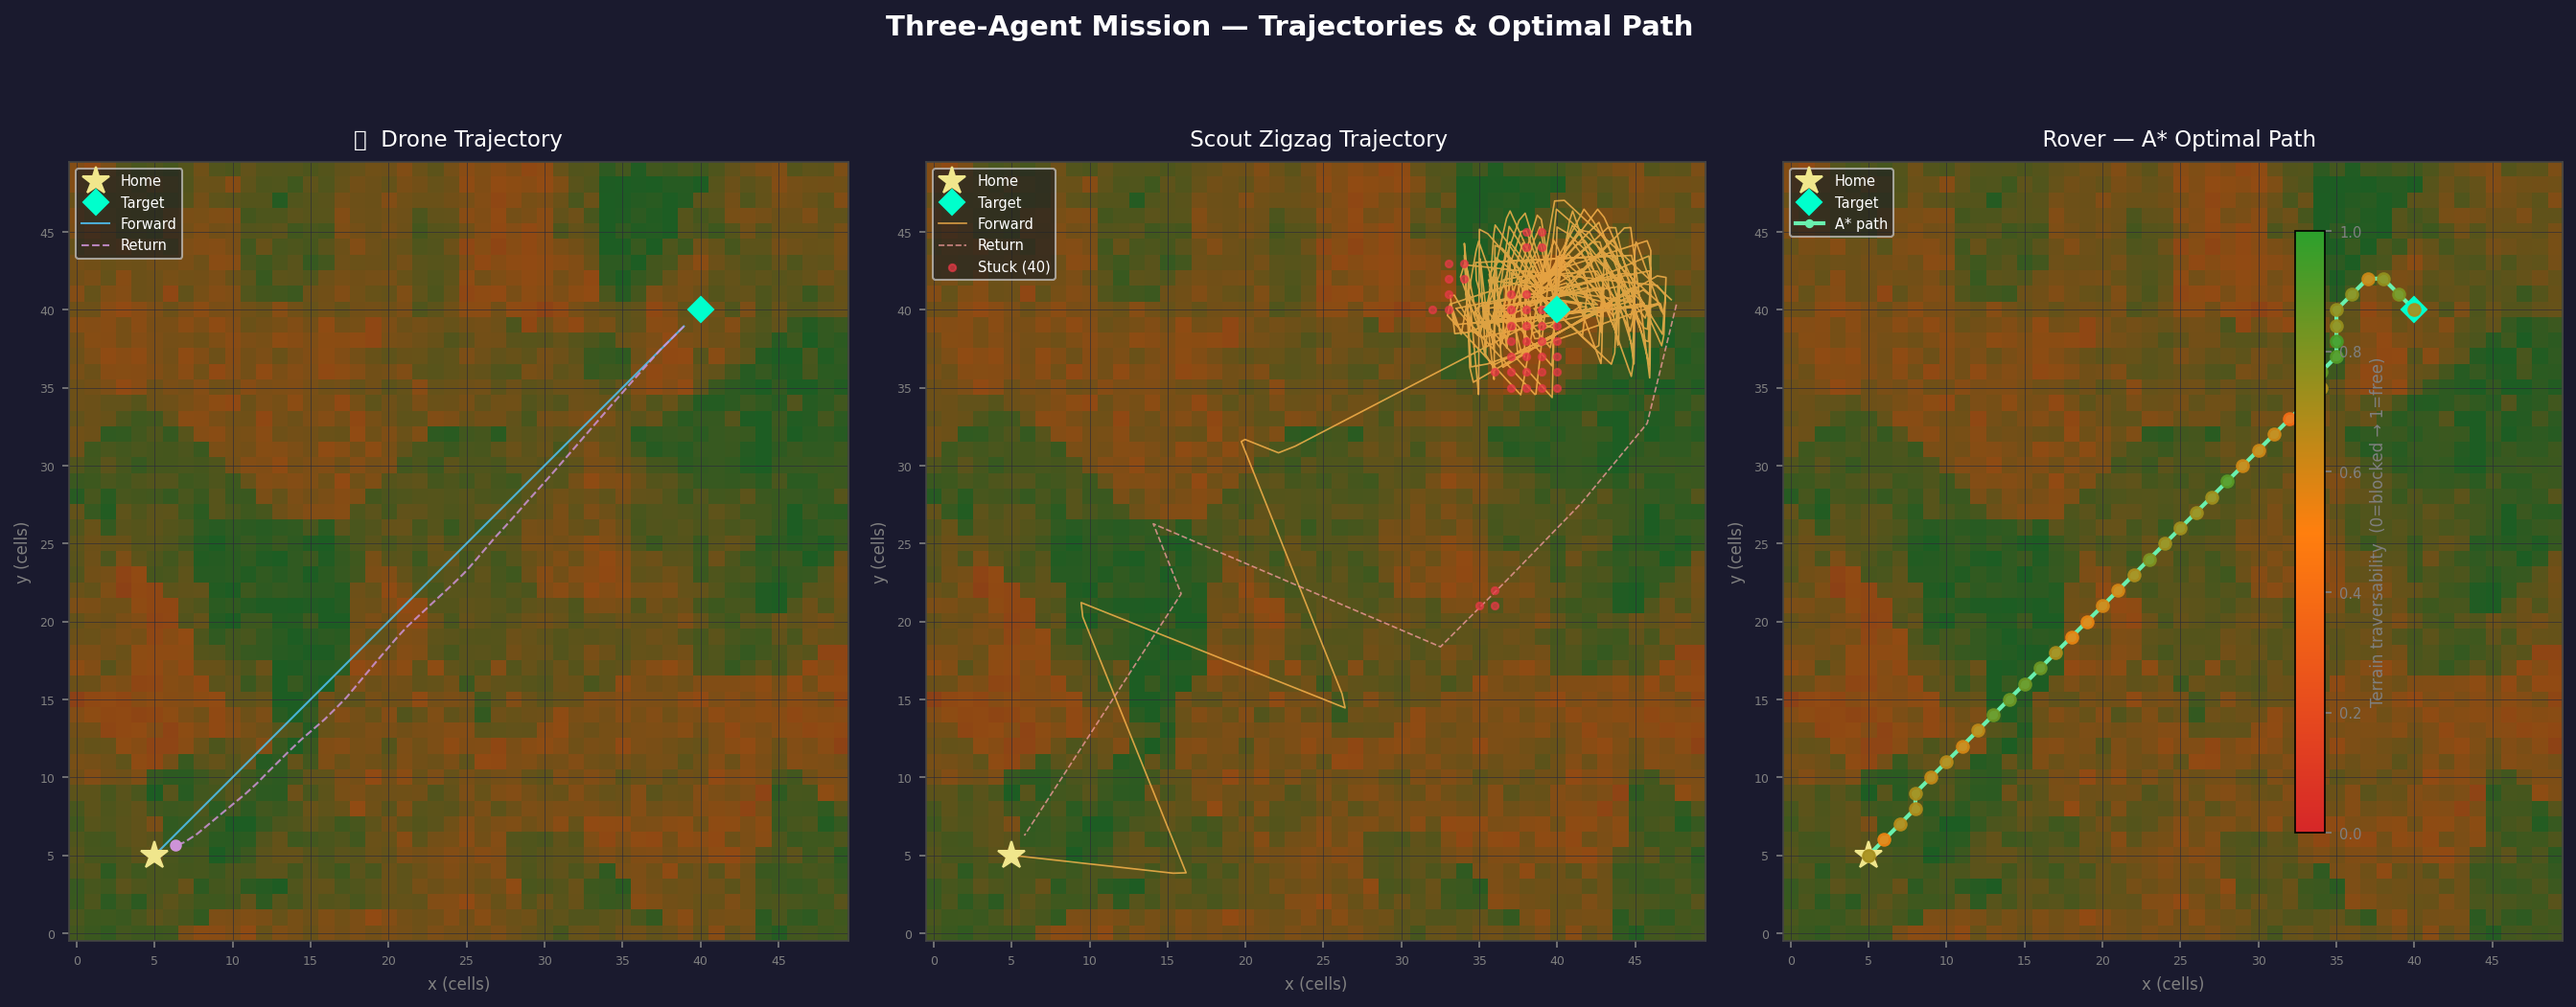
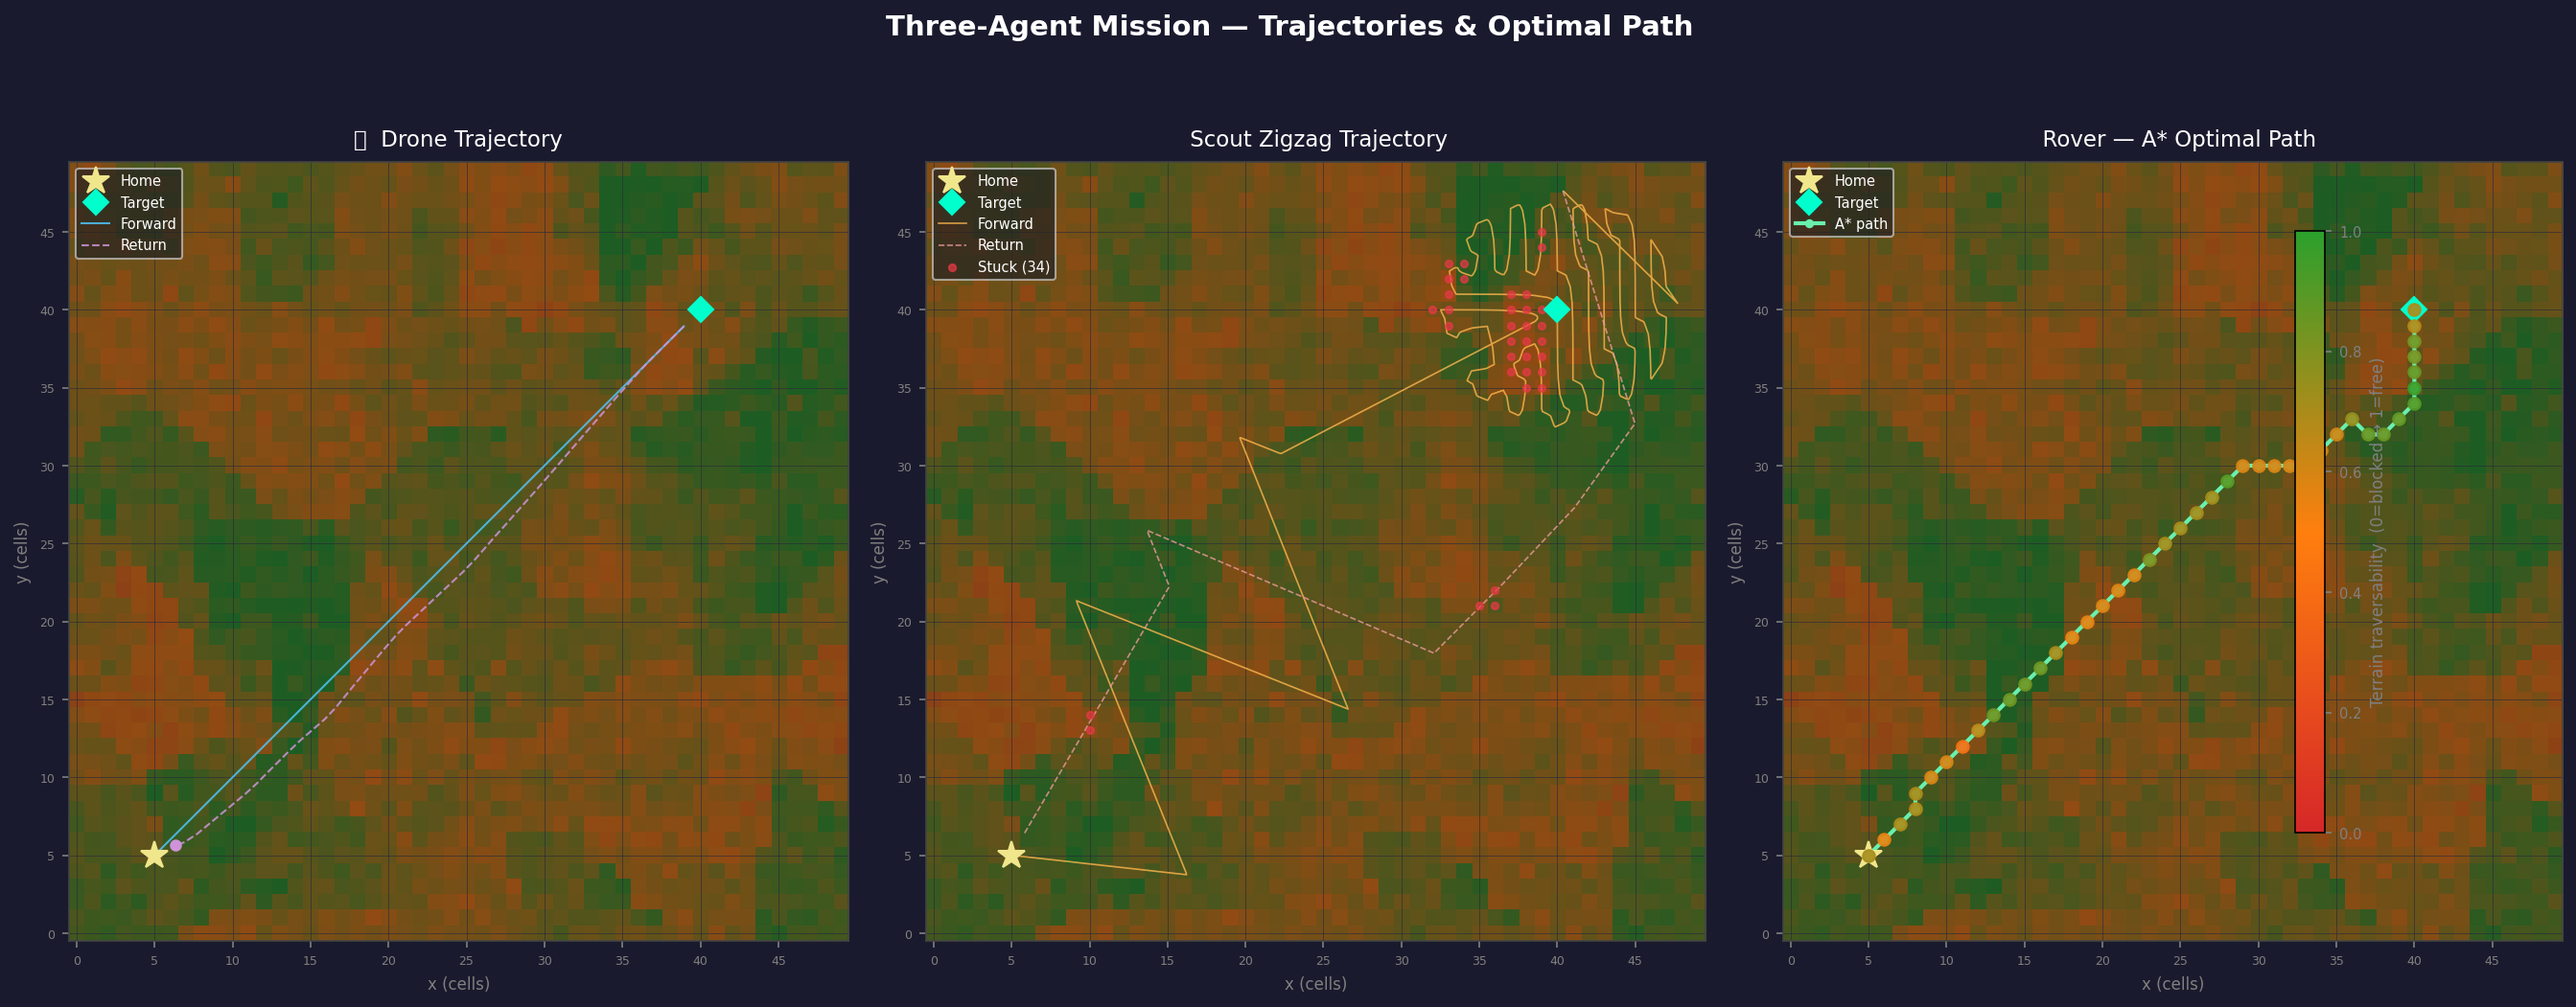
second test governor

Changed region(s): [[0.556, 0.1827, 0.6487, 0.4263], [0.8649, 0.274, 0.9576, 0.4872], [0.7413, 0.7307, 0.7722, 0.7612]]

diff --git a/governor.py b/governor.py
@@ -295,7 +295,7 @@ def _run_phase(name: str,
 
 # ─── Local Neighbourhood Sweep ────────────────────────────────────────────────
 
-SWEEP_RADIUS         = 8    # cells — radius of the scout-only sweep at goal
+SWEEP_RADIUS         = 8       # cells — radius of scout-only sweep at goal
 SWEEP_MAX_CELL_STEPS = 10_000  # per-cell safety cap for the scout
 
 
@@ -307,47 +307,65 @@ def _explore_goal_neighborhood(drone: Drone,
                                 drone_traj: list | None = None,
                                 scout_traj: list | None = None) -> int:
     """
-    Scout-only sweep of every unexplored cell within `radius` cells (Euclidean)
-    of `focal_point`, visited nearest-first.
+    Scout-only sweep of cells within `radius` of `focal_point` that lack
+    physical traversability data.  The scout's route is ordered by a greedy
+    nearest-neighbour heuristic (start from scout's current position, always
+    go to the closest remaining candidate) to minimise backtracking.
 
-    The drone stays at the focal point and keeps perceiving (wide-area visual
-    coverage) while the scout physically walks to each candidate cell and
-    records real traversability.
+    The drone hovers at focal_point and calls perceive() once per candidate
+    for wide-area visual coverage.
 
     Returns the total number of DT steps consumed.
     """
     print(f"\n  [LOCAL SWEEP] Sweeping {radius}-cell neighbourhood of {focal_point} ...")
 
-    # Build sorted list of cells within radius that need physical validation:
-    # - cells not yet in terrain_map at all (fully unseen), OR
-    # - cells already perceived visually but never physically walked
-    #   (real_traversability=None → IDW would have to guess, possibly badly).
-    candidates = []
+    # ── Collect cells that need physical validation ───────────────────────────
+    # Include cells that are either absent from the grid OR present but never
+    # physically walked (real_traversability=None — only perceived by drone).
+    candidates: list[tuple[int, int]] = []
     for dx in range(-radius, radius + 1):
         for dy in range(-radius, radius + 1):
             cx, cy = focal_point[0] + dx, focal_point[1] + dy
             if 0 <= cx < 50 and 0 <= cy < 50:
-                dist = math.hypot(dx, dy)
-                if dist <= radius:
+                if math.hypot(dx, dy) <= radius:
                     cd = terrain_map.grid.get((cx, cy))
                     if cd is None or cd.real_traversability is None:
-                        candidates.append((dist, cx, cy))
-
-    candidates.sort()   # nearest first
+                        candidates.append((cx, cy))
 
     if not candidates:
         print("  [LOCAL SWEEP] All cells already mapped — nothing to do.")
         return 0
 
-    print(f"  [LOCAL SWEEP] {len(candidates)} unexplored cells to visit.")
-    total_steps = 0
+    # ── Greedy nearest-neighbour tour ─────────────────────────────────────────
+    # Start from the scout's current position; always visit the geometrically
+    # closest remaining candidate next.  This minimises total travel distance
+    # and the number of times the scout re-crosses already-validated cells.
+    remaining = list(candidates)
+    ordered: list[tuple[int, int]] = []
+    cur = (scout.x, scout.y)
+    while remaining:
+        idx = min(range(len(remaining)),
+                  key=lambda i: math.hypot(remaining[i][0] - cur[0],
+                                           remaining[i][1] - cur[1]))
+        nxt = remaining.pop(idx)
+        ordered.append(nxt)
+        cur = (float(nxt[0]), float(nxt[1]))
 
-    for _, cx, cy in candidates:
-        # ── Drone: hover at focal point, keep perceiving (no movement) ──
-        # One perceive call covers the neighbourhood visually.
+    print(f"  [LOCAL SWEEP] {len(ordered)} cells to visit (greedy tour).")
+    total_steps = 0
+    visited_set: set = set()  # track cells already given real_traversability
+
+    for cx, cy in ordered:
+        # Re-check: cell may have been covered as transit by a previous step
+        cd = terrain_map.grid.get((cx, cy))
+        if cd is not None and cd.real_traversability is not None:
+            visited_set.add((cx, cy))
+            continue
+
+        # ── Drone: hovering at focal point, single perceive for visual data ─
         terrain_map.store_observation(drone.perceive())
 
-        # ── Scout: walk to cell, perceive, record real traversability ───
+        # ── Scout: walk to cell along the shortest path ──────────────────────
         s_steps = 0
         while math.hypot(scout.x - cx, scout.y - cy) >= 0.5 \
               and s_steps < SWEEP_MAX_CELL_STEPS:
@@ -358,22 +376,27 @@ def _explore_goal_neighborhood(drone: Drone,
             if scout_traj is not None:
                 scout_traj.append((scout.x, scout.y))
 
+            # Record traversability for every cell the scout passes through
             scx, scy = int(round(scout.x)), int(round(scout.y))
-            cell = terrain_map.get_cell(scx, scy)
-            if cell.real_traversability is None:
-                actual_d   = math.hypot(scout.x - pre_x, scout.y - pre_y)
-                expected_d = scout.speed * DT
-                trav = actual_d / expected_d if expected_d > 1e-9 else 1.0
-                cell.real_traversability = max(0.01, min(1.0, trav))
-            if was_stuck:
-                cell.is_stuck = True
-                cell.real_traversability = min(cell.real_traversability, 0.1)
+            if (scx, scy) not in visited_set:
+                cell = terrain_map.get_cell(scx, scy)
+                if cell.real_traversability is None:
+                    actual_d   = math.hypot(scout.x - pre_x, scout.y - pre_y)
+                    expected_d = scout.speed * DT
+                    trav = actual_d / expected_d if expected_d > 1e-9 else 1.0
+                    cell.real_traversability = max(0.01, min(1.0, trav))
+                if was_stuck:
+                    cell.is_stuck = True
+                    cell.real_traversability = min(cell.real_traversability, 0.1)
+                visited_set.add((scx, scy))
             s_steps += 1
         total_steps += s_steps
+        visited_set.add((cx, cy))
 
     print(f"  [LOCAL SWEEP] Done in {total_steps:,} steps. "
           f"TerrainMap now covers {len(terrain_map.grid)} cells.")
     return total_steps
+
 
 
 # ─── Governor ─────────────────────────────────────────────────────────────────
